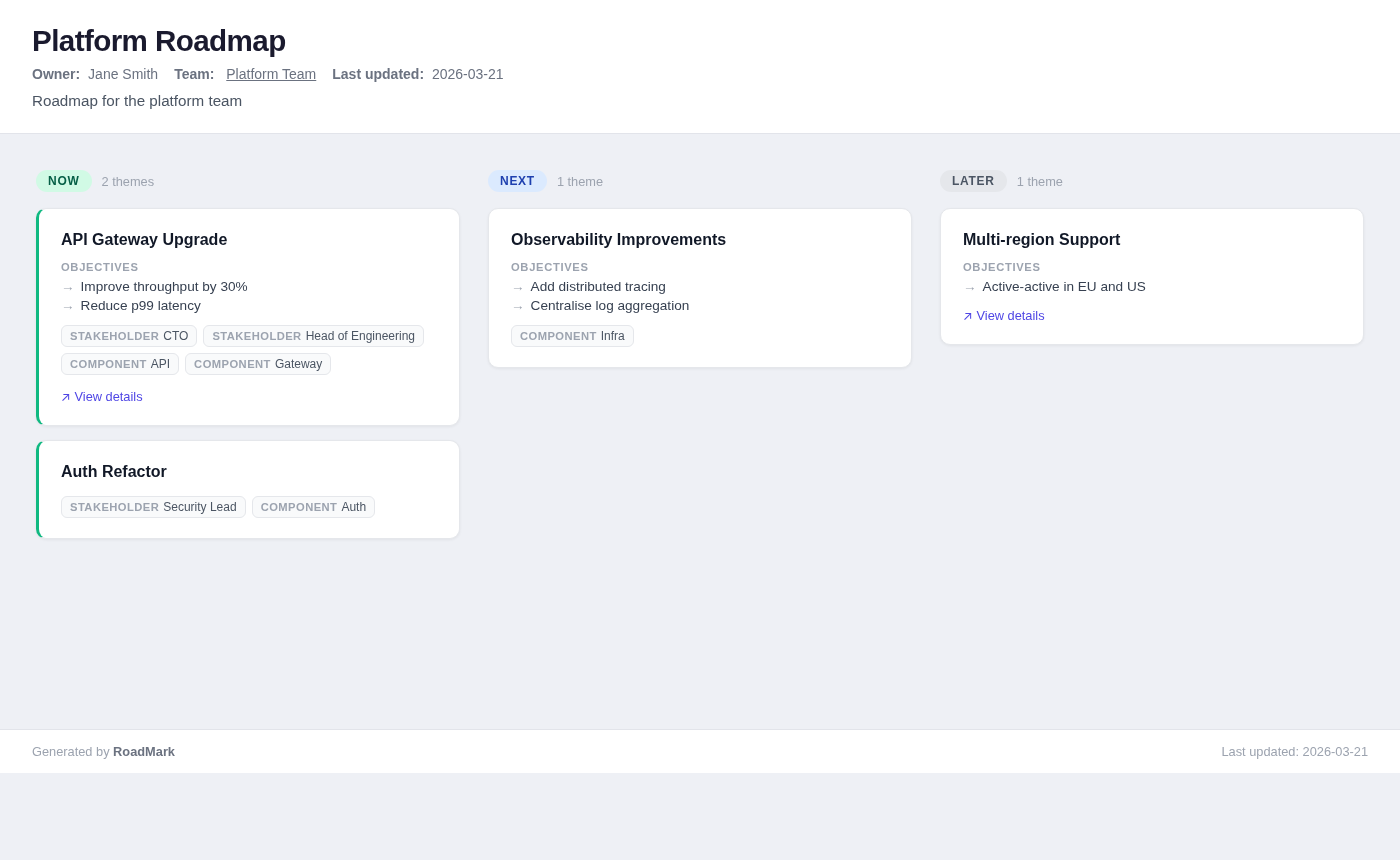
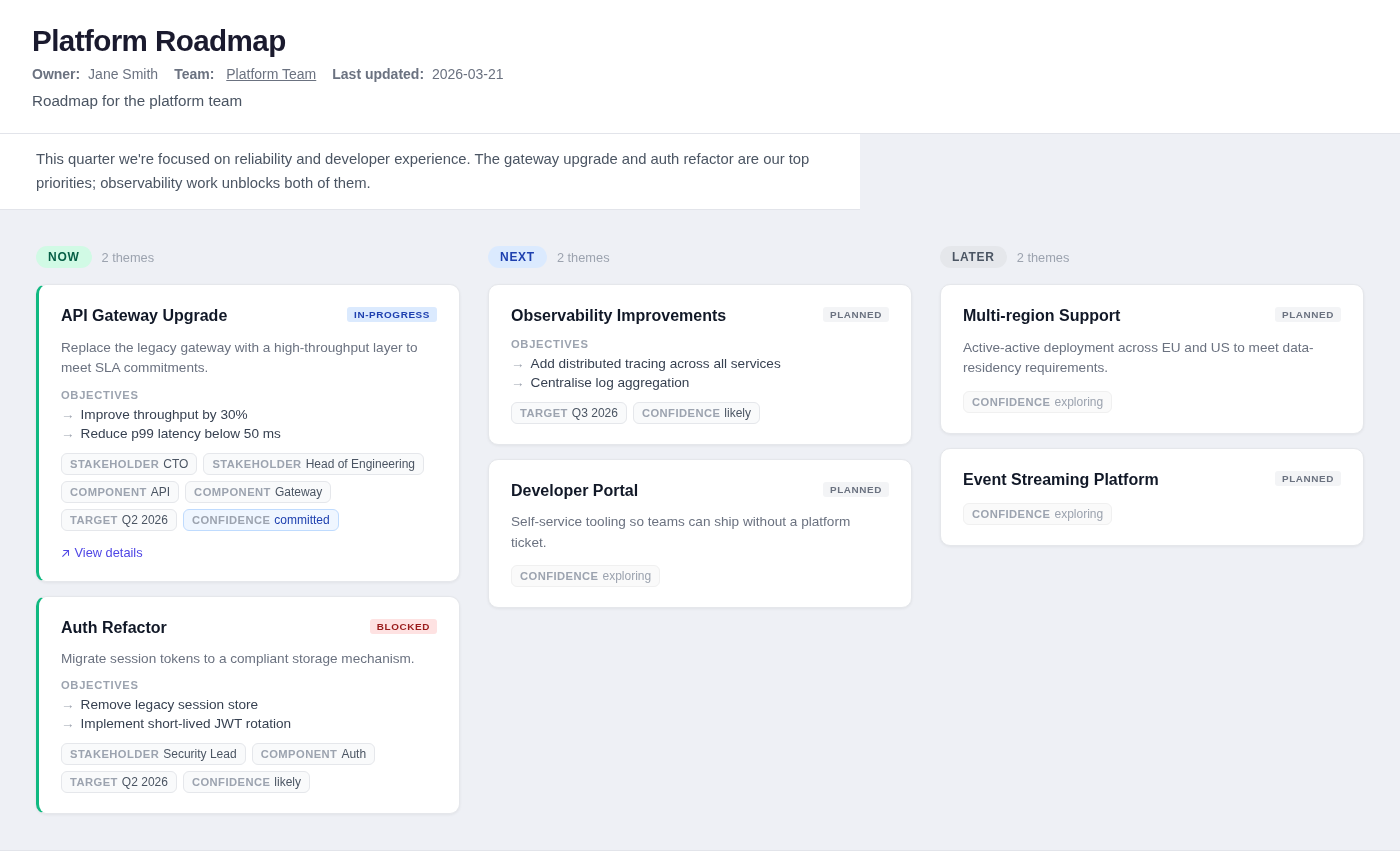
docs: update full example to demonstrate optional fields
Show that fields don't need to be fully specified, especially for
items further out. Later-column cards use only summary/status/confidence
to illustrate progressive detail. Update test fixture and screenshot
docs to match.

diff --git a/tests/test_parser.py b/tests/test_parser.py
@@ -62,10 +62,16 @@ class TestThemes:
         roadmap = parse_file(FIXTURES / "full_example.md")
         gateway = roadmap.columns[0].themes[0]
         assert gateway.name == "API Gateway Upgrade"
-        assert gateway.objectives == ["Improve throughput by 30%", "Reduce p99 latency"]
+        assert gateway.objectives == [
+            "Improve throughput by 30%",
+            "Reduce p99 latency below 50 ms",
+        ]
         assert gateway.stakeholders == ["CTO", "Head of Engineering"]
         assert gateway.components == ["API", "Gateway"]
         assert str(gateway.link) == "https://jira.example.com/epic/101"
+        assert gateway.status == "in-progress"
+        assert gateway.confidence == "committed"
+        assert gateway.target == "Q2 2026"
 
     def test_singular_shorthand(self) -> None:
         roadmap = parse_file(FIXTURES / "full_example.md")

diff --git a/examples/full_example.md b/examples/full_example.md
@@ -5,14 +5,22 @@ owner: Jane Smith
 team: Platform Team
 team_link: https://example.com/platform
 last_updated: 2026-03-21
+summary: |
+  This quarter we're focused on reliability and developer experience.
+  The gateway upgrade and auth refactor are our top priorities;
+  observability work unblocks both of them.
 ---
 
 ## Now
 
 ### API Gateway Upgrade
+- summary: Replace the legacy gateway with a high-throughput layer to meet SLA commitments.
 - objectives:
   - Improve throughput by 30%
-  - Reduce p99 latency
+  - Reduce p99 latency below 50 ms
+- status: in-progress
+- confidence: committed
+- target: Q2 2026
 - stakeholders:
   - CTO
   - Head of Engineering
@@ -22,6 +30,13 @@ last_updated: 2026-03-21
 - link: https://jira.example.com/epic/101
 
 ### Auth Refactor
+- summary: Migrate session tokens to a compliant storage mechanism.
+- objectives:
+  - Remove legacy session store
+  - Implement short-lived JWT rotation
+- status: blocked
+- confidence: likely
+- target: Q2 2026
 - stakeholder: Security Lead
 - component: Auth
 
@@ -29,13 +44,24 @@ last_updated: 2026-03-21
 
 ### Observability Improvements
 - objectives:
-  - Add distributed tracing
+  - Add distributed tracing across all services
   - Centralise log aggregation
-- component: Infra
+- status: planned
+- confidence: likely
+- target: Q3 2026
+
+### Developer Portal
+- summary: Self-service tooling so teams can ship without a platform ticket.
+- status: planned
+- confidence: exploring
 
 ## Later
 
 ### Multi-region Support
-- objectives:
-  - Active-active in EU and US
-- link: https://jira.example.com/epic/250
+- summary: Active-active deployment across EU and US to meet data-residency requirements.
+- status: planned
+- confidence: exploring
+
+### Event Streaming Platform
+- status: planned
+- confidence: exploring

diff --git a/tests/fixtures/full_example.md b/tests/fixtures/full_example.md
@@ -5,14 +5,22 @@ owner: Jane Smith
 team: Platform Team
 team_link: https://example.com/platform
 last_updated: 2026-03-21
+summary: |
+  This quarter we're focused on reliability and developer experience.
+  The gateway upgrade and auth refactor are our top priorities;
+  observability work unblocks both of them.
 ---
 
 ## Now
 
 ### API Gateway Upgrade
+- summary: Replace the legacy gateway with a high-throughput layer to meet SLA commitments.
 - objectives:
   - Improve throughput by 30%
-  - Reduce p99 latency
+  - Reduce p99 latency below 50 ms
+- status: in-progress
+- confidence: committed
+- target: Q2 2026
 - stakeholders:
   - CTO
   - Head of Engineering
@@ -22,6 +30,13 @@ last_updated: 2026-03-21
 - link: https://jira.example.com/epic/101
 
 ### Auth Refactor
+- summary: Migrate session tokens to a compliant storage mechanism.
+- objectives:
+  - Remove legacy session store
+  - Implement short-lived JWT rotation
+- status: blocked
+- confidence: likely
+- target: Q2 2026
 - stakeholder: Security Lead
 - component: Auth
 
@@ -29,13 +44,24 @@ last_updated: 2026-03-21
 
 ### Observability Improvements
 - objectives:
-  - Add distributed tracing
+  - Add distributed tracing across all services
   - Centralise log aggregation
-- component: Infra
+- status: planned
+- confidence: likely
+- target: Q3 2026
+
+### Developer Portal
+- summary: Self-service tooling so teams can ship without a platform ticket.
+- status: planned
+- confidence: exploring
 
 ## Later
 
 ### Multi-region Support
-- objectives:
-  - Active-active in EU and US
-- link: https://jira.example.com/epic/250
+- summary: Active-active deployment across EU and US to meet data-residency requirements.
+- status: planned
+- confidence: exploring
+
+### Event Streaming Platform
+- status: planned
+- confidence: exploring
